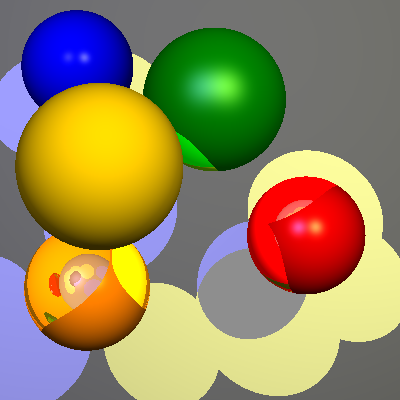
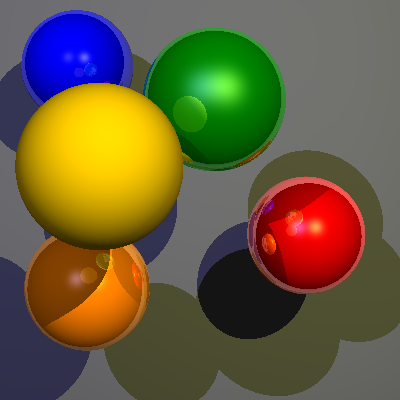
Raytracer2: Implemented reflection

diff --git a/RayTracer_2/Code/scene.cpp b/RayTracer_2/Code/scene.cpp
@@ -30,59 +30,55 @@ Color Scene::trace(Ray const &ray, int depth)
     if (!obj) return Color(0.0, 0.0, 0.0);
 
     Material material = obj->material;          //the hit objects material
-    Point hit = ray.at(min_hit.t);                 //the hit point
-    Vector N = min_hit.N;                          //the normal at hit point
-    Vector V = -ray.D;                             //the view vector
+    Point hit = ray.at(min_hit.t);              //the hit point
+    Vector N = min_hit.N;                       //the normal at hit point
+    Vector V = -ray.D;                          //the view vector
     
-    Color color, color_diffuse, color_ambient, color_spec;
+    Color color;
     
     /* Set up ambient color */
     
-    color_ambient = material.color * material.ka;
+    color = material.color * material.ka;
     
     /* Sum the total of the diffuse and and specular of all lights */
-    
-    Hit new_min_hit(numeric_limits<double>::infinity(), Vector());
+ 
     Point newOrigin = ray.at(min_hit.t);
     
 	for(uint i = 0;i<lights.size();i++){
+		Vector L      = (lights[i]->position - hit).normalized();
+        Vector R      = ((2*(N.dot(L))*N) - L).normalized();
+        bool inshadow = false;
+		
 		if(shadows){
 			Vector newDir = (lights[i]->position - newOrigin).normalized();
-			Ray new_ray(newOrigin, newDir);
+			Ray new_ray(newOrigin + (N*0.001), newDir);
 			ObjectPtr new_obj = nullptr;
 		
-			for (unsigned idx = 0; idx != objects.size(); ++idx){
-				if(objects[idx] != obj){
-					Hit new_hit(objects[idx]->intersect(new_ray));
-					if(new_hit.t > 0)
-					{
-						new_obj = objects[idx];
-					}
+			for(unsigned idx = 0; idx != objects.size(); ++idx){
+				Hit new_hit(objects[idx]->intersect(new_ray));
+				if(new_hit.t > 0)
+				{
+					inshadow = true;
+					break;
 				}
 			}
-            
-            Vector L       = (lights[i]->position - hit).normalized();
-            Vector R         = ((2*(N.dot(L))*N) - L).normalized();
-                
-			if(!new_obj) {
-				color_diffuse 	+= max(0.0,(L.dot(N))) * material.color * lights[i]->color * material.kd;
-				color_spec		+= pow(max(0.0,R.dot(V)),material.n) * lights[i]->color * material.ks;
-			} else if(depth) {
-                Ray new_ray(newOrigin, R);
-                color_spec      += trace(new_ray, depth-1);
-            }
-
-		} else {
-			Vector L 		 = (lights[i]->position - hit).normalized();
-			Vector R 		 = ((2*(N.dot(L))*N) - L).normalized();
-			color_diffuse 	+= max(0.0,(L.dot(N))) * material.color * lights[i]->color * material.kd;
-			color_spec		+= pow(max(0.0,R.dot(V)),material.n) * lights[i]->color * material.ks;
+		}
+		
+		if(!inshadow){
+			color += max(0.0,(L.dot(N))) * material.color * lights[i]->color * material.kd;
+			color += pow(max(0.0,R.dot(V)),material.n) * lights[i]->color * material.ks;
+		}
+	}
+	
+	if(depth < getMaxDepth()){
+		if (material.ks){
+			Vector eyeReflect = ((2*(N.dot(V))*N) - V).normalized();
+			Ray new_ray(hit + (N*0.01), eyeReflect);
+			color += trace(new_ray, depth+1) * material.ks;
 		}
 	}
 
 	/* Combine the three into one single color */
-	
-	color = color_diffuse + color_ambient + color_spec;
 	
     return color;
 }
@@ -97,7 +93,7 @@ void Scene::render(Image &img)
         {
             Point pixel(x + 0.5, h - 1 - y + 0.5, 0);
             Ray ray(eye, (pixel - eye).normalized());
-            Color col = trace(ray, depth);
+            Color col = trace(ray,0);
             col.clamp();
             img(x, y) = col;
         }
@@ -139,10 +135,10 @@ bool Scene::getShadows(){
 	return shadows;
 }
 
-void Scene::setDepth(int d) {
-    depth = d;
+void Scene::setMaxDepth(int d) {
+    maxdepth = d;
 }
 
-int Scene::getDepth() {
-    return depth;
+int Scene::getMaxDepth() {
+    return maxdepth;
 }

diff --git a/OpenGL_2/Code/mainview.cpp b/OpenGL_2/Code/mainview.cpp
@@ -107,7 +107,7 @@ void MainView::initializeGL() {
     // Set the color of the screen to be black on clear (new frame)
     glClearColor(0.2f, 0.5f, 0.7f, 0.0f);
 
-    loadModel(":/models/cat.obj", QVector3D(0, 0, -5));
+    loadModel(":/models/sphere.obj", QVector3D(0, 0, -5));
 
     perspectiveMatrix.perspective(60.0,width()/height(),1,100);
 
@@ -160,6 +160,7 @@ void MainView::addShader(GLuint shader, QString vertexshader, QString fragshader
     normalTransformLocation[shader]      = shaderPrograms[shader].uniformLocation("normalTransform");
     if(shader != MainView::NORMAL){
         lightPositionLocation[shader]        = shaderPrograms[shader].uniformLocation("lightPosition");
+        lightColorLocation[shader]      	 = shaderPrograms[shader].uniformLocation("lightColor");
         materialIntensityLocation[shader]    = shaderPrograms[shader].uniformLocation("materialIntensity");
         phongExponentLocation[shader]        = shaderPrograms[shader].uniformLocation("phongExponent");
         texSamplerLocation[shader]           = shaderPrograms[shader].uniformLocation("texSampler");
@@ -196,6 +197,7 @@ void MainView::paintGL() {
         glUniformMatrix3fv(normalTransformLocation[currentShadingMode], 1, GL_FALSE, normalMatrix.data());
         if(currentShadingMode != MainView::NORMAL){
             glUniform3fv(lightPositionLocation[currentShadingMode], 1, lightPosition);
+			glUniform3fv(lightColorLocation[currentShadingMode], 1, lightColor);
             glUniform3fv(materialIntensityLocation[currentShadingMode], 1, materialIntensity);
             glUniform1i(phongExponentLocation[currentShadingMode], phongExponent);
         }

diff --git a/RayTracer_2/Code/shapes/sphere.cpp b/RayTracer_2/Code/shapes/sphere.cpp
@@ -7,28 +7,6 @@ using namespace std;
 
 Hit Sphere::intersect(Ray const &ray)
 {
-    /****************************************************
-    * RT1.1: INTERSECTION CALCULATION
-    *
-    * Given: ray, position, r
-    * Sought: intersects? if true: *t
-    *
-    * Insert calculation of ray/sphere intersection here.
-    *
-    * You have the sphere's center (C) and radius (r) as well as
-    * the ray's origin (ray.O) and direction (ray.D).
-    *
-    * If the ray does not intersect the sphere, return false.
-    * Otherwise, return true and place the distance of the
-    * intersection point from the ray origin in *t (see example).
-    ****************************************************/
-
-    // place holder for actual intersection calculation
-
-    /*Vector OC = (position - ray.O).normalized();
-    if (OC.dot(ray.D) < 0.999) {
-        return Hit::NO_HIT();
-    }*/
     double t;
     
     float a = 1;
@@ -43,17 +21,11 @@ Hit Sphere::intersect(Ray const &ray)
 		t = (-b - sqrt(disc))/(2*a);
 		if(t < 0){
 			t = (-b + sqrt(disc))/(2*a);
+			if(t < 0){
+				return Hit::NO_HIT();
+			}
 		}
 	}
-
-    /****************************************************
-    * RT1.2: NORMAL CALCULATION
-    *
-    * Given: t, C, r
-    * Sought: N
-    *
-    * Insert calculation of the sphere's normal at the intersection point.
-    ****************************************************/
 
     Vector N  = ((ray.O + (t*ray.D)) - position).normalized();
 

diff --git a/OpenGL_2/Code/mainview.h b/OpenGL_2/Code/mainview.h
@@ -25,6 +25,7 @@ class MainView : public QOpenGLWidget, protected QOpenGLFunctions_3_3_Core {
     QOpenGLShaderProgram shaderPrograms[3];
 
     GLfloat lightPosition[3] = {0.0, 0.0, 10.0};
+    GLfloat lightColor[3] = {1.0, 1.0, 1.0};
     GLfloat materialIntensity[3] = {0.2, 0.8, 0.5};
     int phongExponent = 16;
 
@@ -38,6 +39,7 @@ class MainView : public QOpenGLWidget, protected QOpenGLFunctions_3_3_Core {
     GLint perspectiveTransformLocation[3];
     GLint normalTransformLocation[3];
     GLint lightPositionLocation[3];
+    GLint lightColorLocation[3];
     GLint materialIntensityLocation[3];
     GLint phongExponentLocation[3];
     GLint texSamplerLocation[3];

diff --git a/RayTracer_2/Code/scene.h b/RayTracer_2/Code/scene.h
@@ -17,7 +17,7 @@ class Scene
     std::vector<LightPtr> lights;   // no ptr needed, but kept for consistency
     bool shadows;
     Point eye;
-    int depth;
+    int maxdepth;
 
     public:
 
@@ -32,10 +32,10 @@ class Scene
         void addLight(Light const &light);
         void setEye(Triple const &position);
         void setShadows(bool b);
-        void setDepth(int d);
+        void setMaxDepth(int d);
 
         bool getShadows();
-        int getDepth();
+        int getMaxDepth();
         unsigned getNumObject();
         unsigned getNumLights();
 };

diff --git a/RayTracer_2/Code/raytracer.cpp b/RayTracer_2/Code/raytracer.cpp
@@ -139,7 +139,7 @@ try
 	scene_width = 400;
 	scene_height = 400;
 	scene.setShadows(false);
-    scene.setDepth(0);
+    scene.setMaxDepth(0);
 
 	if(jsonscene["ImageSize"] != nullptr){
 		scene_width = jsonscene["ImageSize"][0];
@@ -151,7 +151,7 @@ try
 	}
 
     if(jsonscene["MaxRecursionDepth"] != nullptr) {
-        scene.setDepth(jsonscene["MaxRecursionDepth"]);
+        scene.setMaxDepth(jsonscene["MaxRecursionDepth"]);
     }
 
 
